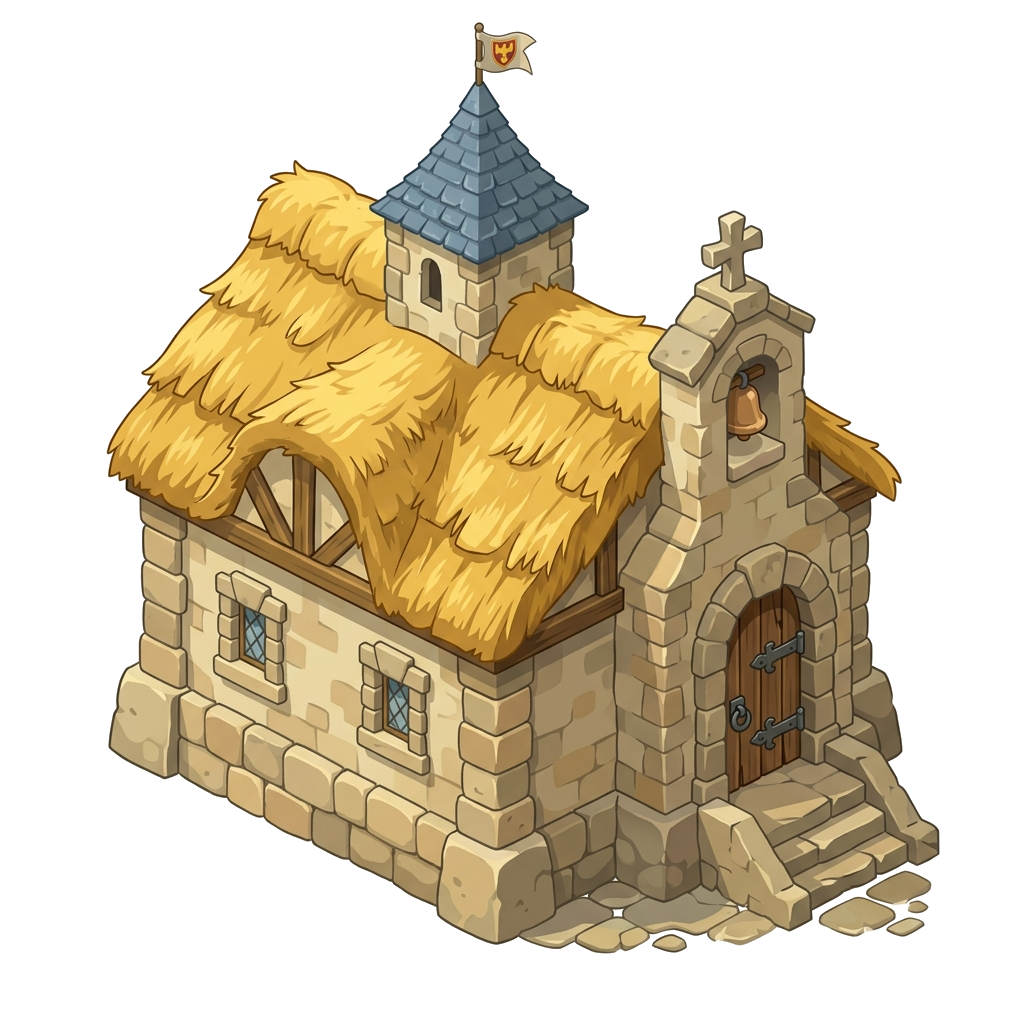
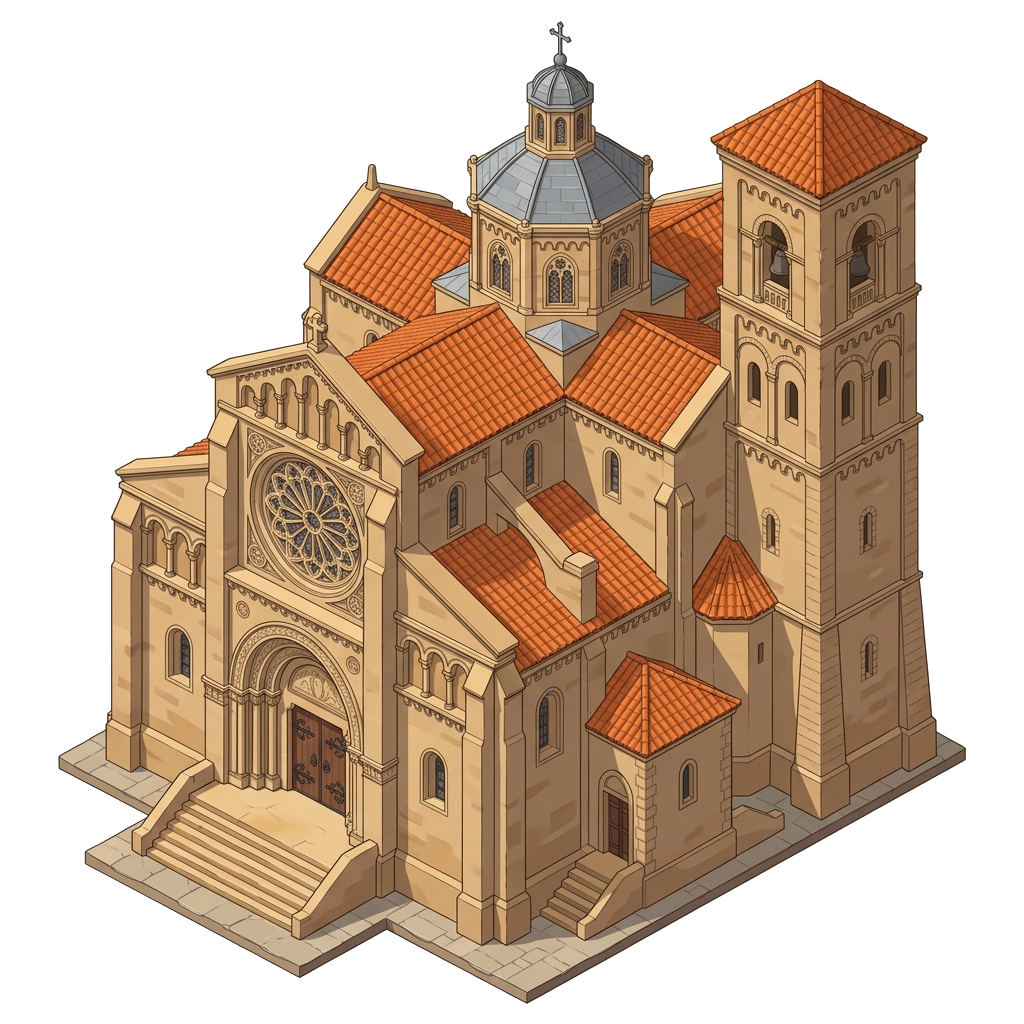
Implement Romanesque Temple Natividad matching exact architecture from image with doors facing down-right and clean outlineless vector style

diff --git a/client/src/scenes/GameScene.ts b/client/src/scenes/GameScene.ts
@@ -94,8 +94,6 @@ export class GameScene extends Phaser.Scene {
     goldG.generateTexture('gold', 32, 32);
     goldG.destroy();
 
-    this.generateProceduralTempleTexture();
-
     this.createIslandMap();
     this.createTempleBuilding();
     this.createGatheringNodes();
@@ -2095,98 +2093,6 @@ export class GameScene extends Phaser.Scene {
     }
   }
 
-  private generateProceduralTempleTexture() {
-    if (this.textures.exists('temple-building')) {
-      this.textures.remove('temple-building');
-    }
-
-    const g = this.make.graphics({ x: 0, y: 0 });
-    const w = 260;
-    const h = 230;
-
-    const drawFilledPoly = (pts: number[], color: number, alpha: number = 1) => {
-      g.fillStyle(color, alpha);
-      g.beginPath();
-      g.moveTo(pts[0], pts[1]);
-      for (let i = 2; i < pts.length; i += 2) {
-        g.lineTo(pts[i], pts[i + 1]);
-      }
-      g.closePath();
-      g.fillPath();
-    };
-
-    const drawStrokedPoly = (pts: number[], color: number, width: number = 1.5, alpha: number = 0.9) => {
-      g.lineStyle(width, color, alpha);
-      g.beginPath();
-      g.moveTo(pts[0], pts[1]);
-      for (let i = 2; i < pts.length; i += 2) {
-        g.lineTo(pts[i], pts[i + 1]);
-      }
-      g.closePath();
-      g.strokePath();
-    };
-
-    // 1. Sombra suave de la base del templo en el suelo
-    g.fillStyle(0x0f172a, 0.22);
-    g.fillTriangle(130, 205, 10, 140, 250, 140);
-    g.fillTriangle(130, 205, 250, 140, 130, 90);
-
-    // 2. Base de Piedra Tallada (Muro Izquierdo Sombreado)
-    drawFilledPoly([30, 140, 130, 190, 130, 135, 30, 85], 0x64748b);
-
-    // 3. Base de Piedra Tallada (Muro Derecho Iluminado - Fachada Principal)
-    drawFilledPoly([130, 190, 230, 140, 230, 85, 130, 135], 0x94a3b8);
-
-    // Detalle de Bloques de Piedra en la fachada
-    g.lineStyle(1.5, 0x475569, 0.7);
-    g.beginPath();
-    g.moveTo(30, 115); g.lineTo(130, 165); g.lineTo(230, 115);
-    g.moveTo(30, 98);  g.lineTo(130, 148); g.lineTo(230, 98);
-    g.strokePath();
-
-    // 4. Escaleras de Piedra de Entrada (Orientadas hacia Abajo a la Derecha)
-    drawFilledPoly([158, 176, 192, 159, 200, 163, 166, 180], 0xcbd5e1);
-    drawFilledPoly([166, 180, 200, 163, 208, 167, 174, 184], 0xcbd5e1);
-    drawFilledPoly([174, 184, 208, 167, 216, 171, 182, 188], 0x94a3b8);
-
-    // 5. Arco y Puerta de Madera de Entrada (Fachada Derecha, mirando hacia Abajo-Derecha)
-    drawFilledPoly([152, 154, 188, 136, 188, 104, 152, 122], 0xe2e8f0);
-    drawFilledPoly([155, 151, 185, 136, 185, 109, 155, 124], 0x92400e);
-
-    // Remaches de Hierro de la Puerta
-    g.fillStyle(0x334155, 1);
-    g.fillCircle(162, 143, 1.5);
-    g.fillCircle(178, 135, 1.5);
-    g.fillCircle(162, 129, 1.5);
-    g.fillCircle(178, 121, 1.5);
-
-    // 6. Techo de Paja Dorada (Thatched Roof)
-    drawFilledPoly([20, 85, 130, 140, 130, 45, 20, 20], 0xb45309);
-    drawFilledPoly([130, 140, 240, 85, 240, 20, 130, 45], 0xf59e0b);
-    drawFilledPoly([16, 18, 130, 42, 244, 18, 130, 38], 0x78350f);
-    drawFilledPoly([130, 136, 236, 85, 236, 24, 130, 48], 0xfbbf24);
-
-    // 7. Torre / Campanario Superior de Piedra
-    g.fillStyle(0x64748b, 1);
-    g.fillRect(118, 20, 24, 20);
-    g.fillStyle(0x94a3b8, 1);
-    g.fillRect(130, 20, 12, 20);
-    g.fillStyle(0x78350f, 1);
-    g.fillTriangle(114, 20, 142, 20, 130, 6);
-
-    // Banderín / Estandarte Dorado Flameando
-    g.lineStyle(2, 0x475569, 1);
-    g.lineBetween(130, 6, 130, -6);
-    g.fillStyle(0xf59e0b, 1);
-    g.fillTriangle(130, -6, 148, -2, 130, 2);
-
-    // Contornos limpios idénticos al estilo de los árboles y rocas del juego
-    drawStrokedPoly([30, 140, 130, 190, 230, 140, 230, 85, 240, 20, 130, 45, 20, 20, 30, 85], 0x334155, 1.5, 0.9);
-
-    g.generateTexture('temple-building', w, h);
-    g.destroy();
-  }
-
   private createTempleBuilding() {
     const templeCenterX = 16;
     const templeCenterY = 38;
@@ -2198,24 +2104,24 @@ export class GameScene extends Phaser.Scene {
     const templeX = (templeCenterX - templeCenterY) * (tileW / 2);
     const templeY = (templeCenterX + templeCenterY) * (tileH / 2) - 13.333;
 
-    // Sprite del Templo Antiguo generado proceduralmente en Canva / Phaser WebGL (Escala limpia 1.0)
+    // Sprite del Templo de la Natividad (Diseño Isométrico Románico sin líneas negras, puerta hacia abajo a la derecha)
     const temple = this.add.sprite(templeX, templeY, 'temple-building');
-    temple.setOrigin(0.5, 0.82);
-    temple.setScale(1.0);
+    temple.setOrigin(0.5, 0.85);
+    temple.setScale(0.80);
     temple.setDepth(templeY + 120);
 
-    // Colisionador Físico Estático ajustado al tamaño de la base
-    const templeCollider = this.rockGroup.create(templeX, templeY - 8, 'small-rock') as Phaser.Physics.Arcade.Sprite;
+    // Colisionador Físico Estático para la Base de Piedra de la Catedral Románica
+    const templeCollider = this.rockGroup.create(templeX, templeY - 10, 'small-rock') as Phaser.Physics.Arcade.Sprite;
     templeCollider.setVisible(false);
     const cBody = templeCollider.body as Phaser.Physics.Arcade.StaticBody;
     if (cBody) {
-      cBody.setSize(180, 120);
-      cBody.setOffset(-78, -50);
+      cBody.setSize(260, 160);
+      cBody.setOffset(-115, -70);
     }
     templeCollider.refreshBody();
 
-    // Antorchas Místicas flanqueando la entrada orientada hacia abajo-derecha
-    const torchLeft = this.add.circle(templeX + 26, templeY + 18, 6, 0xf59e0b, 0.7);
+    // Antorchas Místicas flanqueando la entrada orientada hacia abajo a la derecha
+    const torchLeft = this.add.circle(templeX + 30, templeY + 20, 7, 0xf59e0b, 0.7);
     torchLeft.setDepth(templeY + 130);
     this.tweens.add({
       targets: torchLeft,
@@ -2227,7 +2133,7 @@ export class GameScene extends Phaser.Scene {
       ease: 'Sine.easeInOut'
     });
 
-    const torchRight = this.add.circle(templeX + 56, templeY + 34, 6, 0xf59e0b, 0.7);
+    const torchRight = this.add.circle(templeX + 65, templeY + 40, 7, 0xf59e0b, 0.7);
     torchRight.setDepth(templeY + 130);
     this.tweens.add({
       targets: torchRight,
